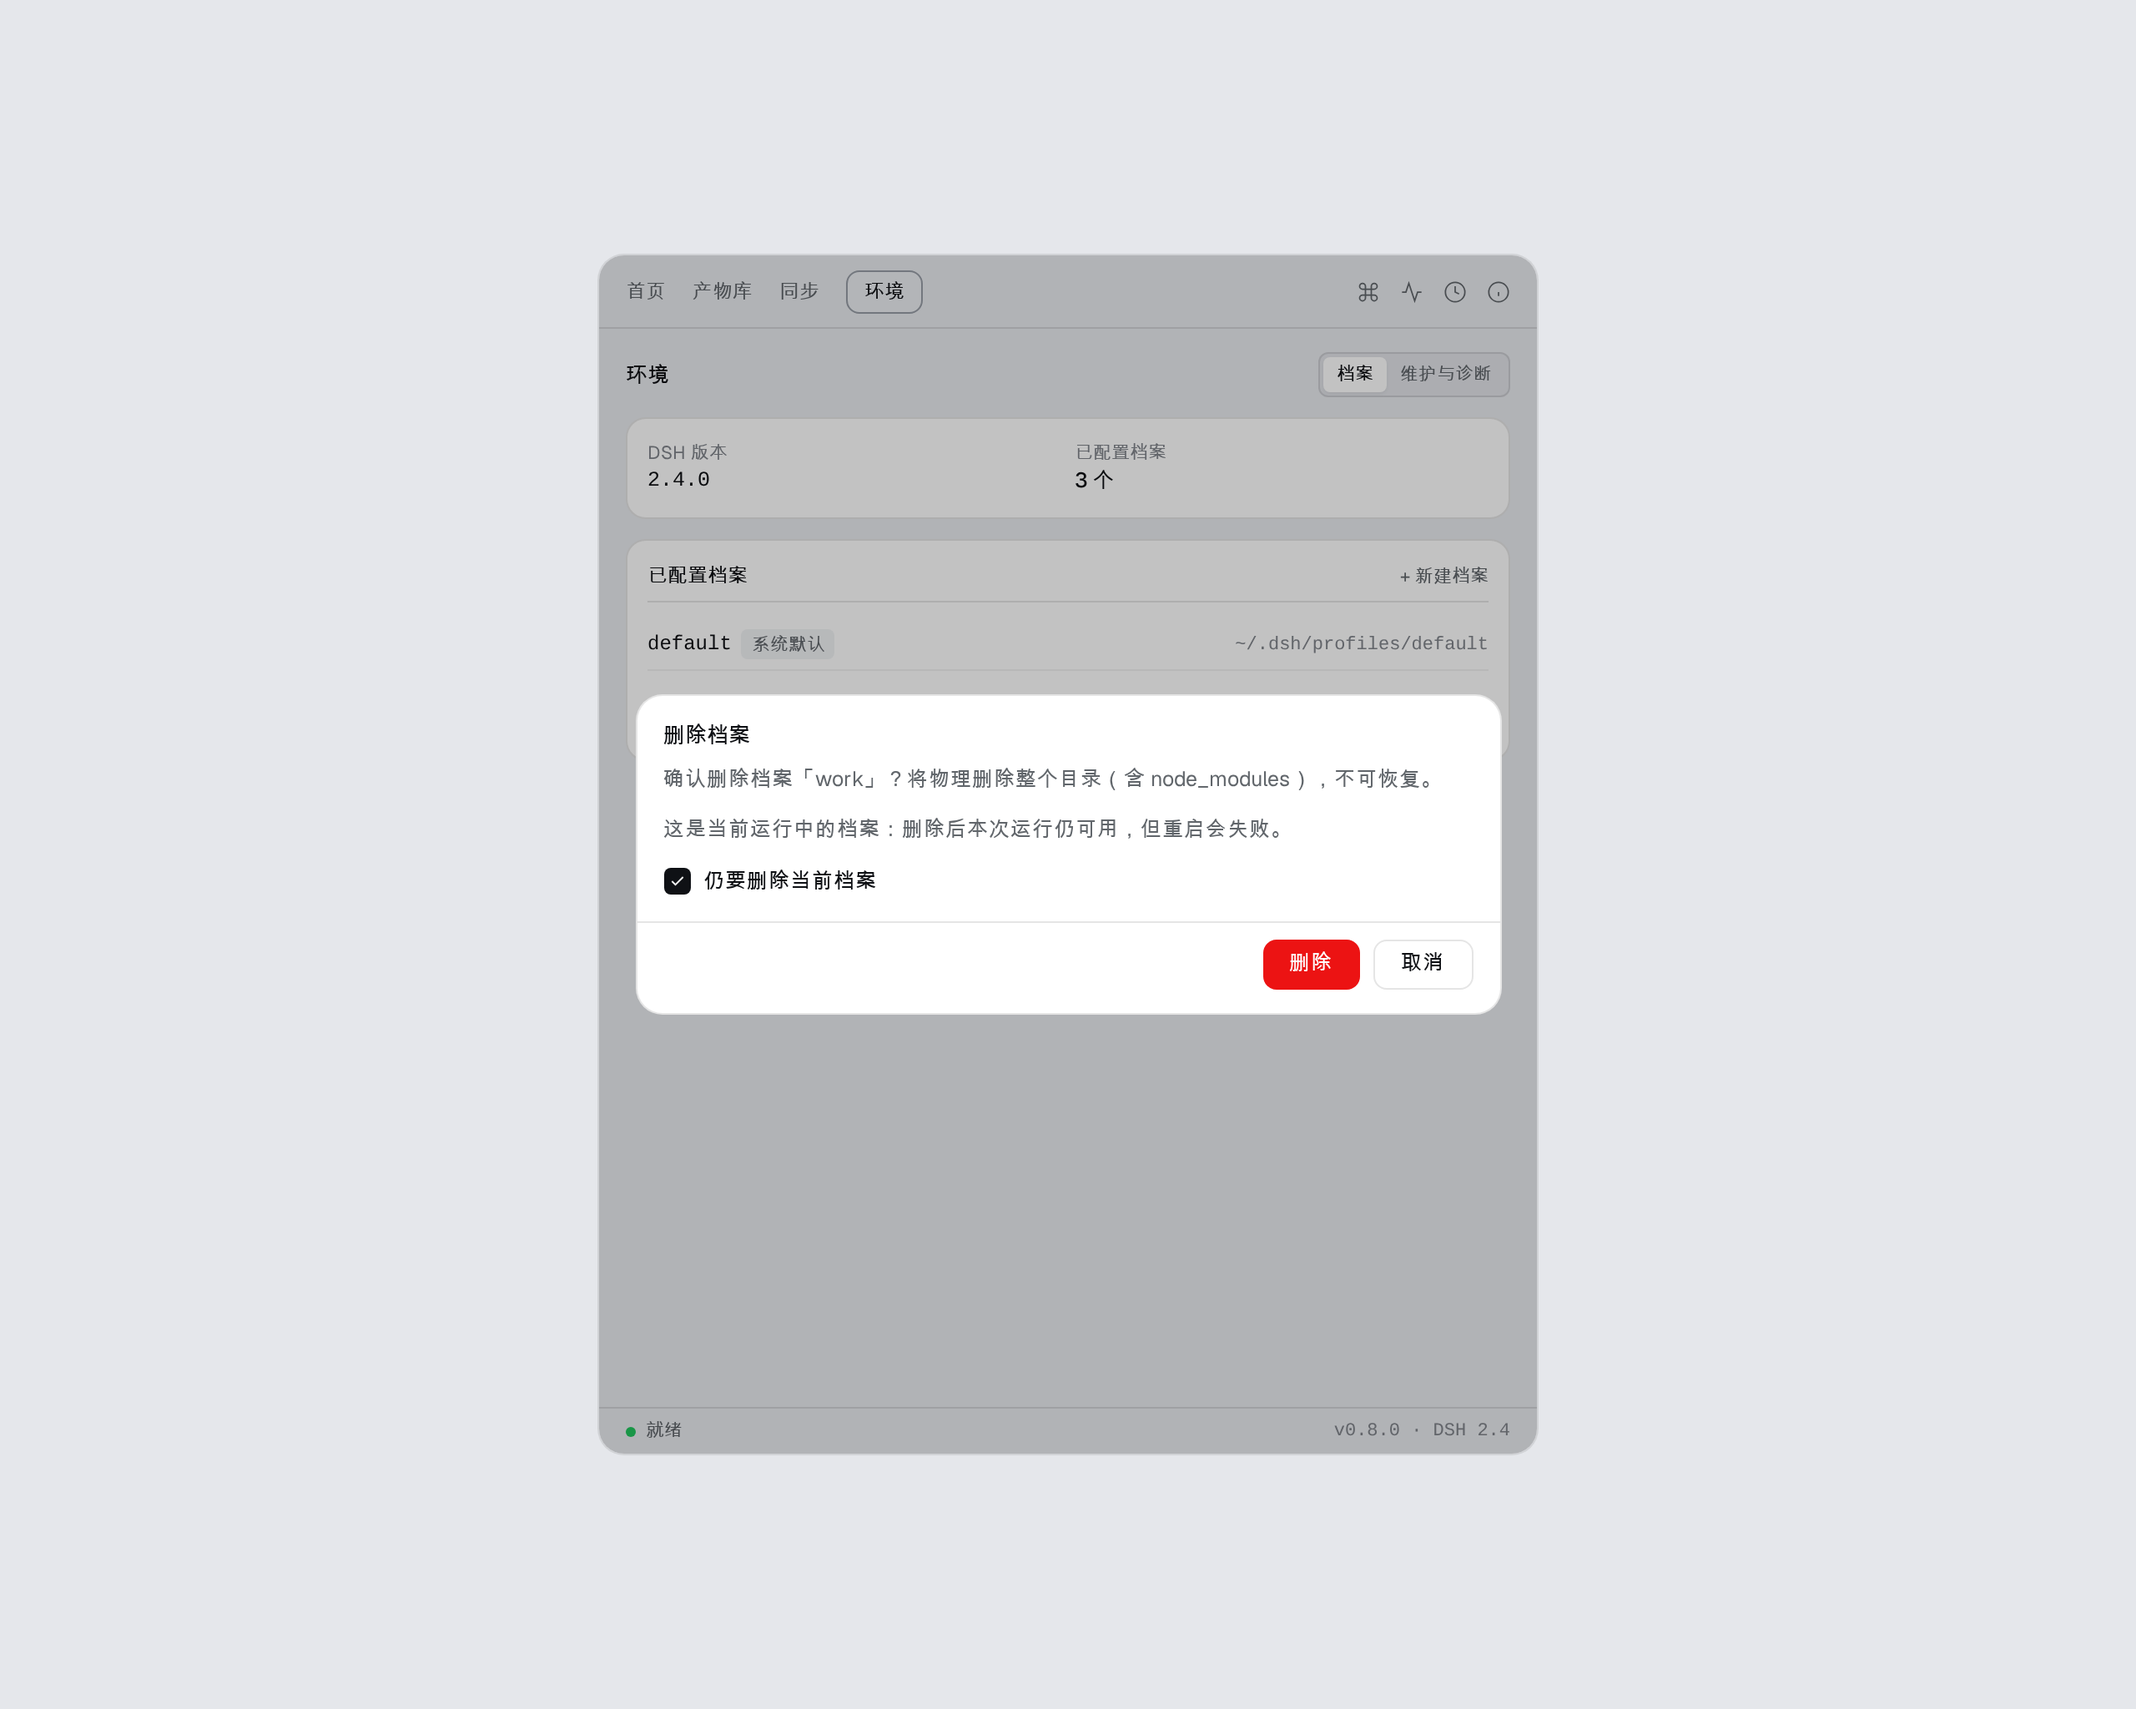
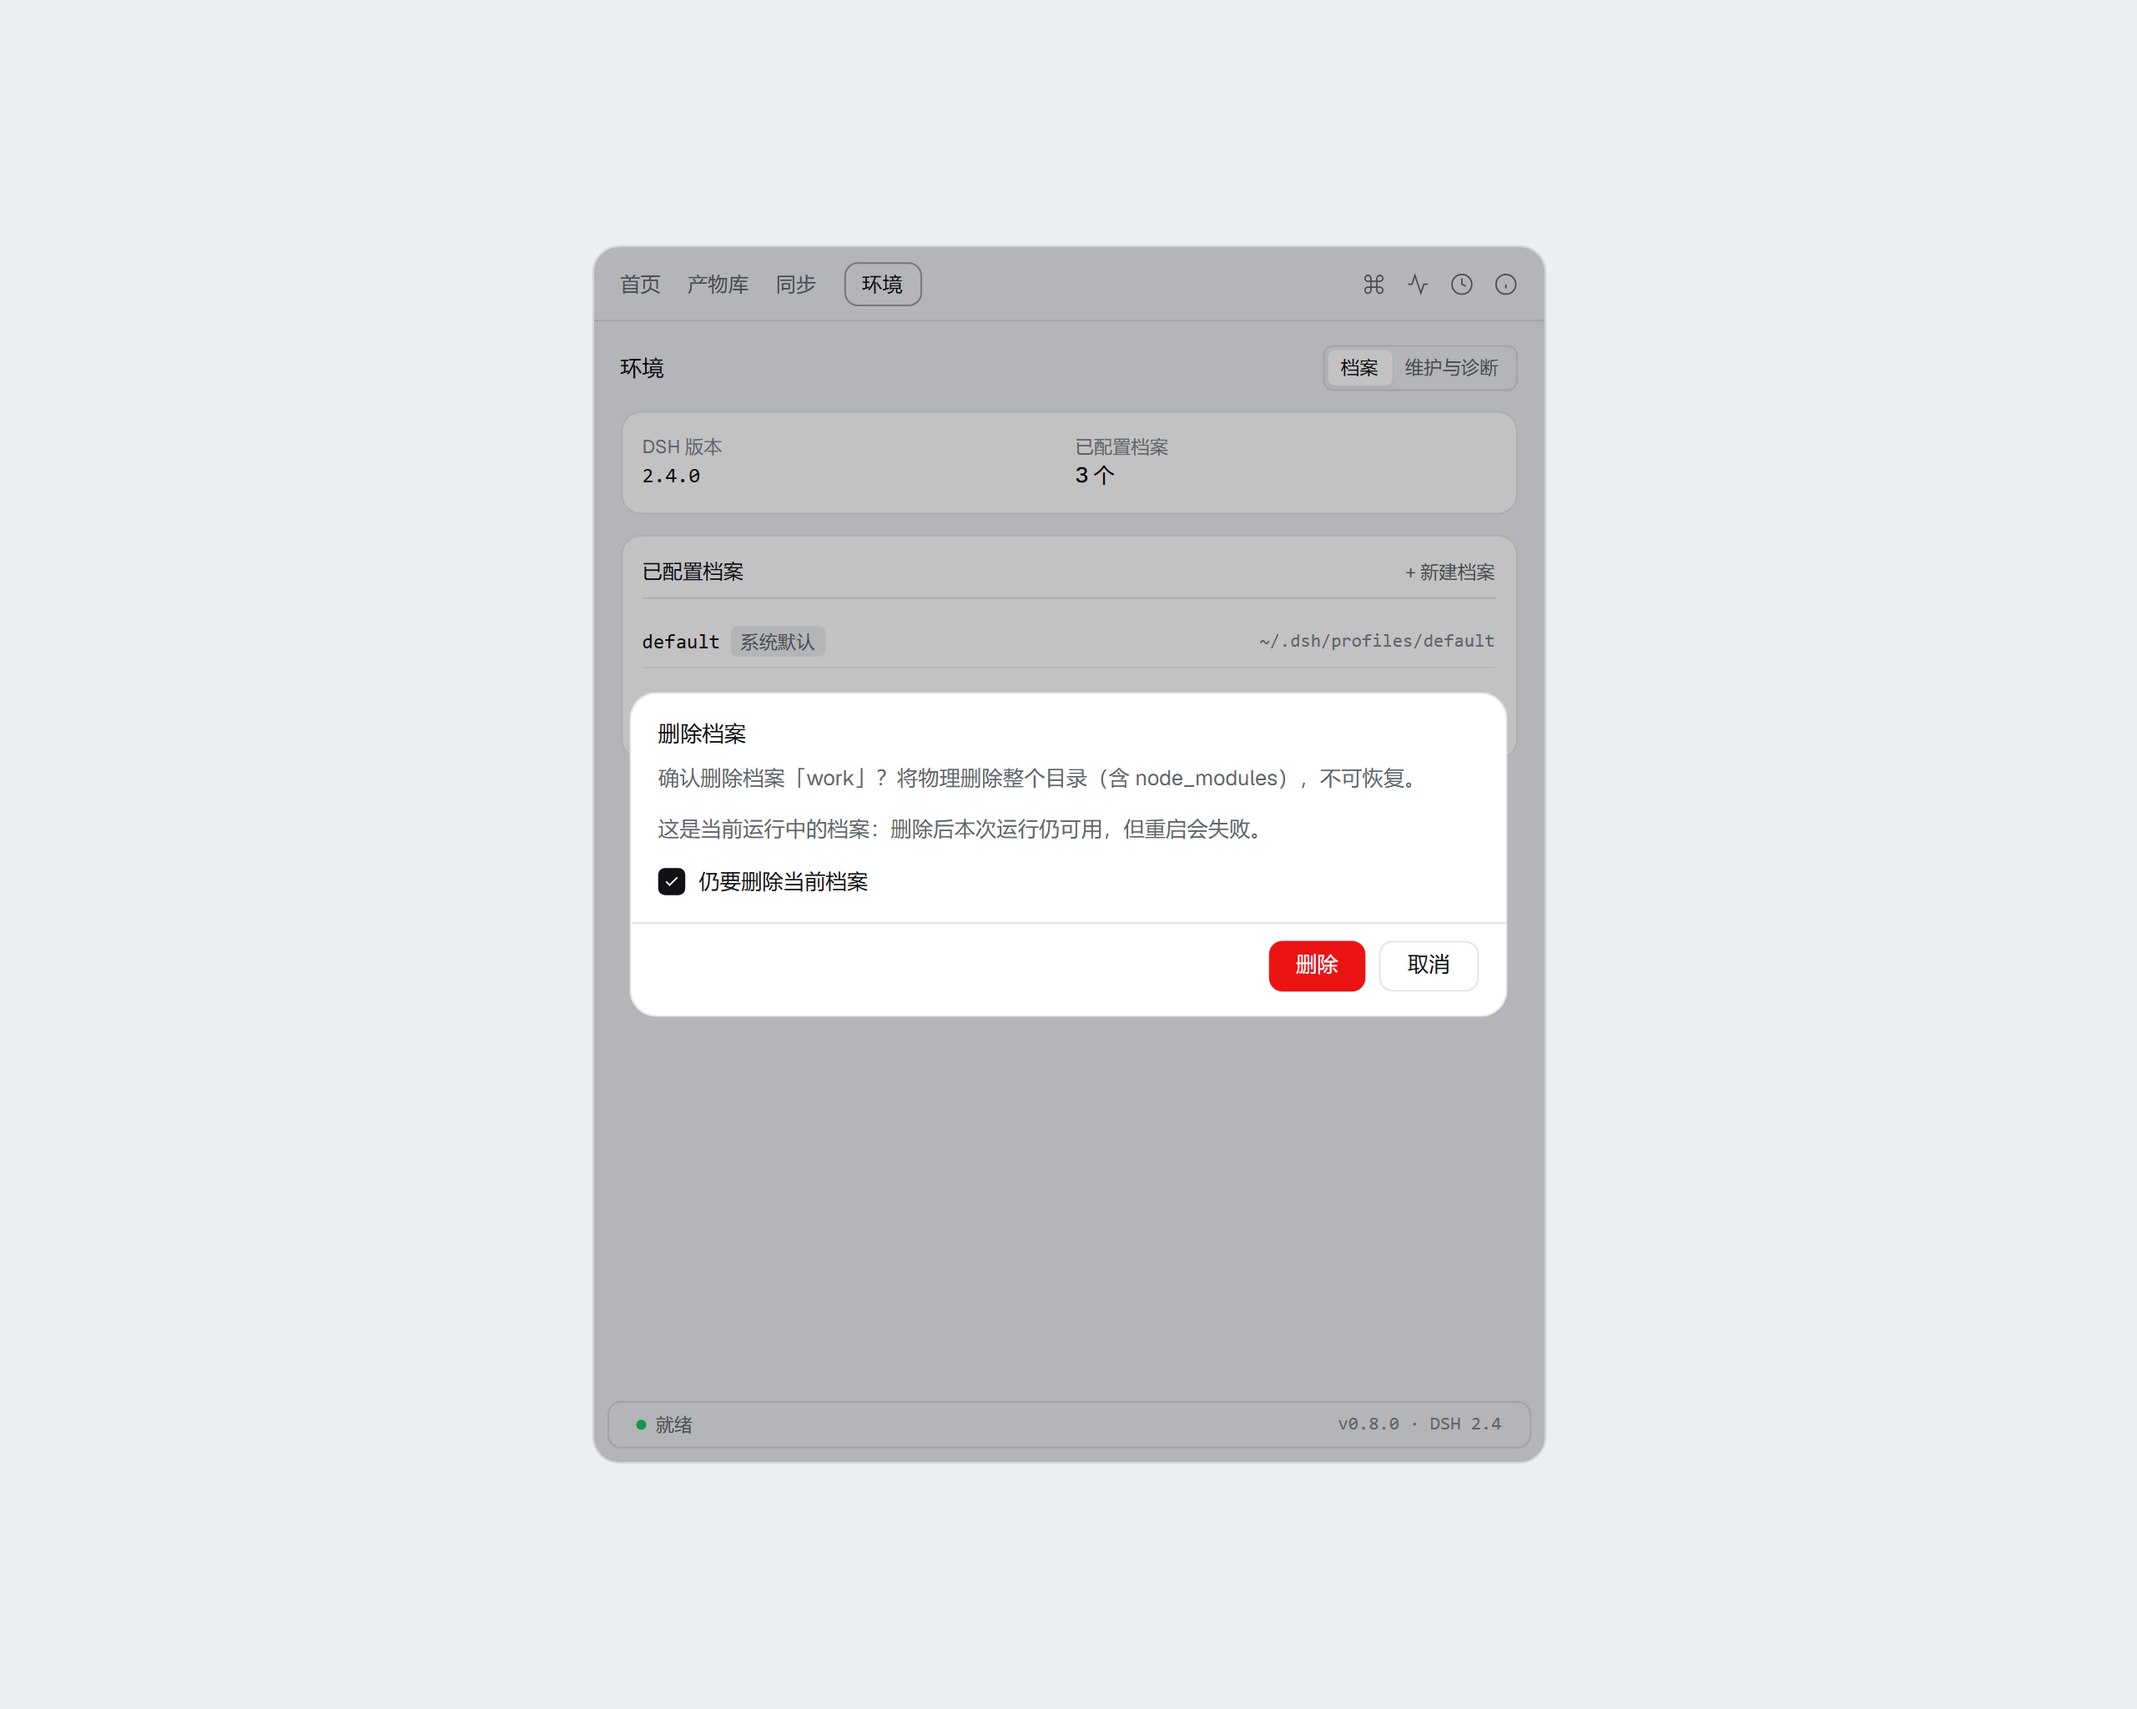
checkpoint: 22 屏 PNG 本地 headless 重渲 + T-06/T-05/D-08 收口

diff --git a/.stitch-refactor/tools/compare.html b/.stitch-refactor/tools/compare.html
@@ -1,0 +1,23 @@
+<!DOCTYPE html><html><body style="margin:0;background:#222">
+<canvas id="c"></canvas>
+<script>
+window.cmp = async (a, b) => {
+  const load = (src) => new Promise((res, rej) => { const i = new Image(); i.onload = () => res(i); i.onerror = () => rej(new Error("load " + src)); i.src = src; });
+  const [ia, ib] = await Promise.all([load(a), load(b)]);
+  const W = Math.min(ia.naturalWidth, ib.naturalWidth), H = Math.min(ia.naturalHeight, ib.naturalHeight);
+  const cv = document.getElementById('c'); cv.width = W; cv.height = H;
+  const ctx = cv.getContext('2d', { willReadFrequently: true });
+  ctx.drawImage(ia, 0, 0); const da = ctx.getImageData(0, 0, W, H).data;
+  ctx.clearRect(0,0,W,H); ctx.drawImage(ib, 0, 0); const db = ctx.getImageData(0, 0, W, H).data;
+  let sum = 0, big = 0, n = 0, cols = new Uint32Array(W), rows = new Uint32Array(H);
+  for (let y = 0; y < H; y++) for (let x = 0; x < W; x++) {
+    const i = (y * W + x) * 4;
+    const d = (Math.abs(da[i]-db[i]) + Math.abs(da[i+1]-db[i+1]) + Math.abs(da[i+2]-db[i+2])) / 3;
+    sum += d; n++; if (d > 24) { big++; cols[x]++; rows[y]++; }
+  }
+  let x0 = W, x1 = 0, y0 = H, y1 = 0;
+  for (let x = 0; x < W; x++) if (cols[x] > 2) { x0 = Math.min(x0, x); x1 = Math.max(x1, x); }
+  for (let y = 0; y < H; y++) if (rows[y] > 2) { y0 = Math.min(y0, y); y1 = Math.max(y1, y); }
+  return JSON.stringify({ W, H, meanDiff: +(sum / n).toFixed(2), bigPct: +(100 * big / n).toFixed(2), diffBox: [x0, y0, x1, y1] });
+};
+</script></body></html>

diff --git a/.stitch-refactor/out/T-06.html b/.stitch-refactor/out/T-06.html
@@ -128,8 +128,7 @@
         </p>
 <!-- 右对齐深色小按钮 -->
 <div class="flex justify-end pt-0.5">
-<button class="h-6 px-2.5 text-[11px] font-medium text-[#FFFFFF] bg-[#0F1115] hover:bg-[#43454A] rounded-[8px] transition-colors">
-            回收残留锁
+<button class="h-6 px-2.5 text-[11px] font-medium text-[#EC1313] bg-white border border-[#EC1313] rounded-[8px] hover:bg-[rgba(236,19,19,0.06)] transition-colors"> 回收残留锁
           </button>
 </div>
 </div>
@@ -180,8 +179,7 @@
             跳过当前插件
           </button>
 <!-- 去选择: 深色主按钮小号 -->
-<button class="h-6 px-2.5 text-[11px] font-medium text-[#FFFFFF] bg-[#0F1115] hover:bg-[#43454A] rounded-[8px] transition-colors">
-            去选择
+<button class="h-6 px-2.5 text-[11px] font-medium text-[#0F1115] bg-white border border-[#0000001A] rounded-[8px] hover:bg-[#EBEEF2] transition-colors"> 去选择
           </button>
 <!-- 终止…: 红色文字 ghost 小按钮 -->
 <button class="h-6 px-2.5 text-[11px] font-medium text-[#EC1313] border border-[#0000001A] hover:bg-[#EC13130D] rounded-[8px] transition-colors">

diff --git a/.stitch-refactor/consistency.md b/.stitch-refactor/consistency.md
@@ -19,13 +19,13 @@
 
 ## C 行
 
-C-01 | 外壳不一致 | 已关闭 | 状态栏原为通栏贴边；现 54/54 为 8px 内缩圆角盒（22 屏在 HTML 层修正，PNG 未重渲） | P1 | 2026-11-11 关闭，口径见 S-1
+C-01 | 外壳不一致 | 已关闭 | 状态栏原为通栏贴边；现 54/54 为 8px 内缩圆角盒（22 屏在 HTML 层修正，并已用本地 headless Chromium 重渲 PNG 覆盖 Stitch 原图） | P1 | 2026-11-11 关闭，口径见 S-1 与 README「PNG 重渲」
 C-02 | 外壳不一致 | P-01、P-03、P-04、P-05 | 右上控制区只画 0 个图标（真实为 ⌘K/活动/历史/关于 四个） | P0 | 补四个图标按钮（属 S-1）
-C-03 | 弹窗形态不一致 | D-08、D-11、D-12、D-20、D-21、D-25、D-35、D-38 | 遮罩下是灰阶骨架条而非可辨识页面 | P1 | 改「真实底层页面 + 压暗」；D-20/D-21/D-26 已回修，其余 5 屏待改（属 S-2）
+C-03 | 弹窗形态不一致 | D-08、D-11、D-12、D-20、D-21、D-25、D-35、D-38 | 遮罩下是灰阶骨架条而非可辨识页面 | P1 | 改「真实底层页面 + 压暗」；D-08/D-20/D-21/D-26 已回修（D-08 经浏览器渲染核实：底层为真实「同步」页 + rgba(0,0,0,0.24) 遮罩），其余 4 屏待改（属 S-2）
 C-04 | 弹窗形态不一致 | D-26（旧版）、D-20（旧版） | 无遮罩，白弹窗浮在亮页面上 | P0 | D-26 已回修，D-20 遮罩下已换真实页面但未压暗，留 1 轮
 C-05 | 按钮与控件不一致 | 14 屏左确认（正确）、12 屏右确认（需分类） | 左确认右取消是 `ConfirmDialog` 家族的**正确**次序；18 屏自绘 `Modal.Footer` 的流程面板才该按各自 DOM | P0 | 逐屏按组件族核对：ConfirmDialog 家族保持左确认；自绘 Footer 屏回查源码 DOM（已在 BASE 补该条）
-C-06 | 按钮与控件不一致 | P-05、T-05、D-02、D-21、D-26、D-38 | 同一危险动作 4 套视觉：红底实心 / 红描边白底 / 红字 ghost / 黑底 | P0 | 统一按 `config-manager.module.css:726-793`：危险按钮 = 透明底 + 45% 红描边 + 红字；红实心仅用于弹窗主动作
-C-07 | 按钮与控件不一致 | D-03、D-06、D-08、D-12 vs D-04、D-16、D-32 | 「关闭」有的画黑底主按钮、有的画 ghost | P1 | 关闭永远是 ghost/描边，不占 primary
+C-06 | 按钮与控件不一致 | P-05、T-05、D-02、D-21、D-26、D-38 | 同一危险动作 4 套视觉：红底实心 / 红描边白底 / 红字 ghost / 黑底 | P0 | 统一按 `config-manager.module.css:726-793`：危险按钮 = 透明底 + 45% 红描边 + 红字；红实心仅用于弹窗主动作；T-06「回收残留锁」已改红描边白底（HTML 层），T-05 唯一黑底是页面主操作「上传配置包」应保留
+C-07 | 按钮与控件不一致 | D-03、D-06、D-08、D-12 vs D-04、D-16、D-32 | 「关闭」有的画黑底主按钮、有的画 ghost | P1 | 关闭永远是 ghost/描边，不占 primary；T-05/T-06 已按此复核通过
 C-08 | 空白与裁切 | D-04≈200px、D-08≈300px、D-28≈250px、D-16≈120px、D-05≈100px、P-05≈130px、D-20/D-26≈250px | 内容结束后大片空白 | P1 | 卡片 fit-content + 底部 ≤24px，或补真实字段（P-04 已用「当前实例」卡示范）
 C-09 | 空白与裁切 | D-22、T-08 | 「修复记录」被裁、CLI 救援卡被底栏压住 | P1 | 压缩间距到 10px、行高 1.25，最末卡与底栏留 12px
 C-10 | 弹窗形态不一致 | D-23 | 唯一双栏 dialogWide，其余 52 屏单栏 | P1 | 双栏仅限 diff/台账类，需在 BASE 明确白名单

diff --git a/.stitch-refactor/README.md b/.stitch-refactor/README.md
@@ -127,5 +127,6 @@
 - **判定口径换成浏览器实测**：把每个 `out/*.html` 载入 Chromium，从「v0.8.0 · DSH 2.4」文本向上找最近的 28px 高、宽度 ≥480 的元素，量它的宽度、圆角、左右留白与父容器溢出量。真值 = 宽 546–548px、圆角 8px、左右各 8px、无溢出（对应 `.statusBar` 的 `margin: 0 8px 8px; border: 1px solid var(--dsw-alias-border-l1); border-radius: var(--cm-r-3)`）。
 - **结果：54/54 合规**。其中 32 屏由 Stitch 出图时就是内缩圆角盒（含本轮回修的 D-10、D-12、D-20、D-25、D-27、D-29、D-34、D-35、D-36、P-02），22 屏在 HTML 层补了内联样式：
   D-05、D-06、D-07、D-08、D-09、D-14、D-14b、D-15、D-17、D-18、D-19、D-22、D-23、D-24、D-33、T-01、T-02b、T-02c、T-04、T-05、T-06、T-07。
-- **这 22 屏的 PNG 仍是 Stitch 原图**（底部状态栏通栏），与修正后的 HTML 只在这一点不同：本机 `take_screenshot` 恒 60s 超时，无法本地重渲；Stitch 侧对「只改状态栏」的重复指令一律判重只回文本。要看修正后的状态栏，打开对应 `out/<ID>.html`。
+- - **PNG 已同步重渲**：这 22 屏的 PNG 改用本地 headless Chromium 从 `out/<ID>.html` 重拍（管线 `.stitch-refactor/.render/cdp.mjs`，Chromium 走 CDP + `Page.captureScreenshot`）。取景对齐核验：面板包围盒与原图一致（差异框 X 710–1852 vs 原图 712–1850），逐像素 meanDiff 1.4–4.6%（差异集中在文字抗锯齿与状态栏本身）。原图备份在 `shots/.stitch-orig/`。
+- 重渲流程：`node .stitch-refactor/.render/cdp.mjs jobs.json`，jobs 里每屏给 `{url, out, vw: 1263, vh: 1010, dsf: H/1010}`；HTML 里的 `cdn.tailwindcss.com` 换成本地 `.render/tailwind.js`，Google Fonts 链接换成本地 `.render/fonts.css`（11 个 woff2 已落盘），否则离线渲染会掉样式/掉字重。
 - 复现/复测脚本口径见本节第一段，判定数据存 `.tmp/statusbar-final.json`。

diff --git a/.stitch-refactor/pages/T-06.md b/.stitch-refactor/pages/T-06.md
@@ -29,3 +29,9 @@
 ### 状态栏（C-01）HTML 层修正
 - Stitch 对该屏的「只改状态栏」指令判重，未再出图；改为在 `out/T-06.html` 的状态栏元素上补内联样式：`width:calc(100% - 16px); margin:0 8px 8px; border:1px solid #0000001A; border-radius:8px; box-sizing:border-box`。
 - 浏览器实测：宽 546–548px、圆角 8px、左右各 8px、父容器无溢出。PNG 仍是 Stitch 原图（仅此一处不同）。
+## HTML 层修正（2026-11-11 深夜，取代 Stitch 重试）
+
+- 「回收残留锁」由黑底 primary 改为**白底 + 1px #EC1313 描边 + 红字**（危险动作不占 primary，依据 C-06 / `config-manager.module.css:726-793`）。
+- 「去选择」由黑底 primary 改为**白底 + 1px #0000001A 描边 + #0F1115 字**（导航型次动作）。
+- 全屏再无 `bg-[#0F1115]` 按钮；唯一红色元素是底部「终止…」红字按钮。
+- 依据：Stitch 侧四次 `edit_screens` 均被判重或超时，改用 HTML 层等价修改，PNG 由 headless Chromium 重渲。

diff --git a/.stitch-refactor/pages/D-08.md b/.stitch-refactor/pages/D-08.md
@@ -32,3 +32,7 @@
 ### 状态栏（C-01）HTML 层修正
 - Stitch 对该屏的「只改状态栏」指令判重，未再出图；改为在 `out/D-08.html` 的状态栏元素上补内联样式：`width:calc(100% - 16px); margin:0 8px 8px; border:1px solid #0000001A; border-radius:8px; box-sizing:border-box`。
 - 浏览器实测：宽 546–548px、圆角 8px、左右各 8px、父容器无溢出。PNG 仍是 Stitch 原图（仅此一处不同）。
+## HTML 层修正（2026-11-11 深夜，取代 Stitch 重试）
+
+- 浏览器渲染核实：遮罩层为 `rgba(0,0,0,0.24)`（= token `#0000003D`），底层是可辨识的「同步」页（顶部 32px 页签栏 + 内容），不是灰阶骨架 ⇒ C-03 对本屏关闭。
+- Stitch 三次判重未出图，本结论以 `out/D-08.html` 的真实渲染为准。

diff --git a/.stitch-refactor/pages/T-05.md b/.stitch-refactor/pages/T-05.md
@@ -38,3 +38,7 @@
 ### 状态栏（C-01）HTML 层修正
 - Stitch 对该屏的「只改状态栏」指令判重，未再出图；改为在 `out/T-05.html` 的状态栏元素上补内联样式：`width:calc(100% - 16px); margin:0 8px 8px; border:1px solid #0000001A; border-radius:8px; box-sizing:border-box`。
 - 浏览器实测：宽 546–548px、圆角 8px、左右各 8px、父容器无溢出。PNG 仍是 Stitch 原图（仅此一处不同）。
+## HTML 层修正（2026-11-11 深夜，取代 Stitch 重试）
+
+- 复核结论：唯一黑底按钮是「上传配置包」= 该页主操作，按 DESIGN.md「每视图一个 primary」保留，不算 C-06/C-07 缺陷。
+- 删除按钮已是红描边白底，其余为描边 ghost ⇒ C-06/C-07 关闭。
